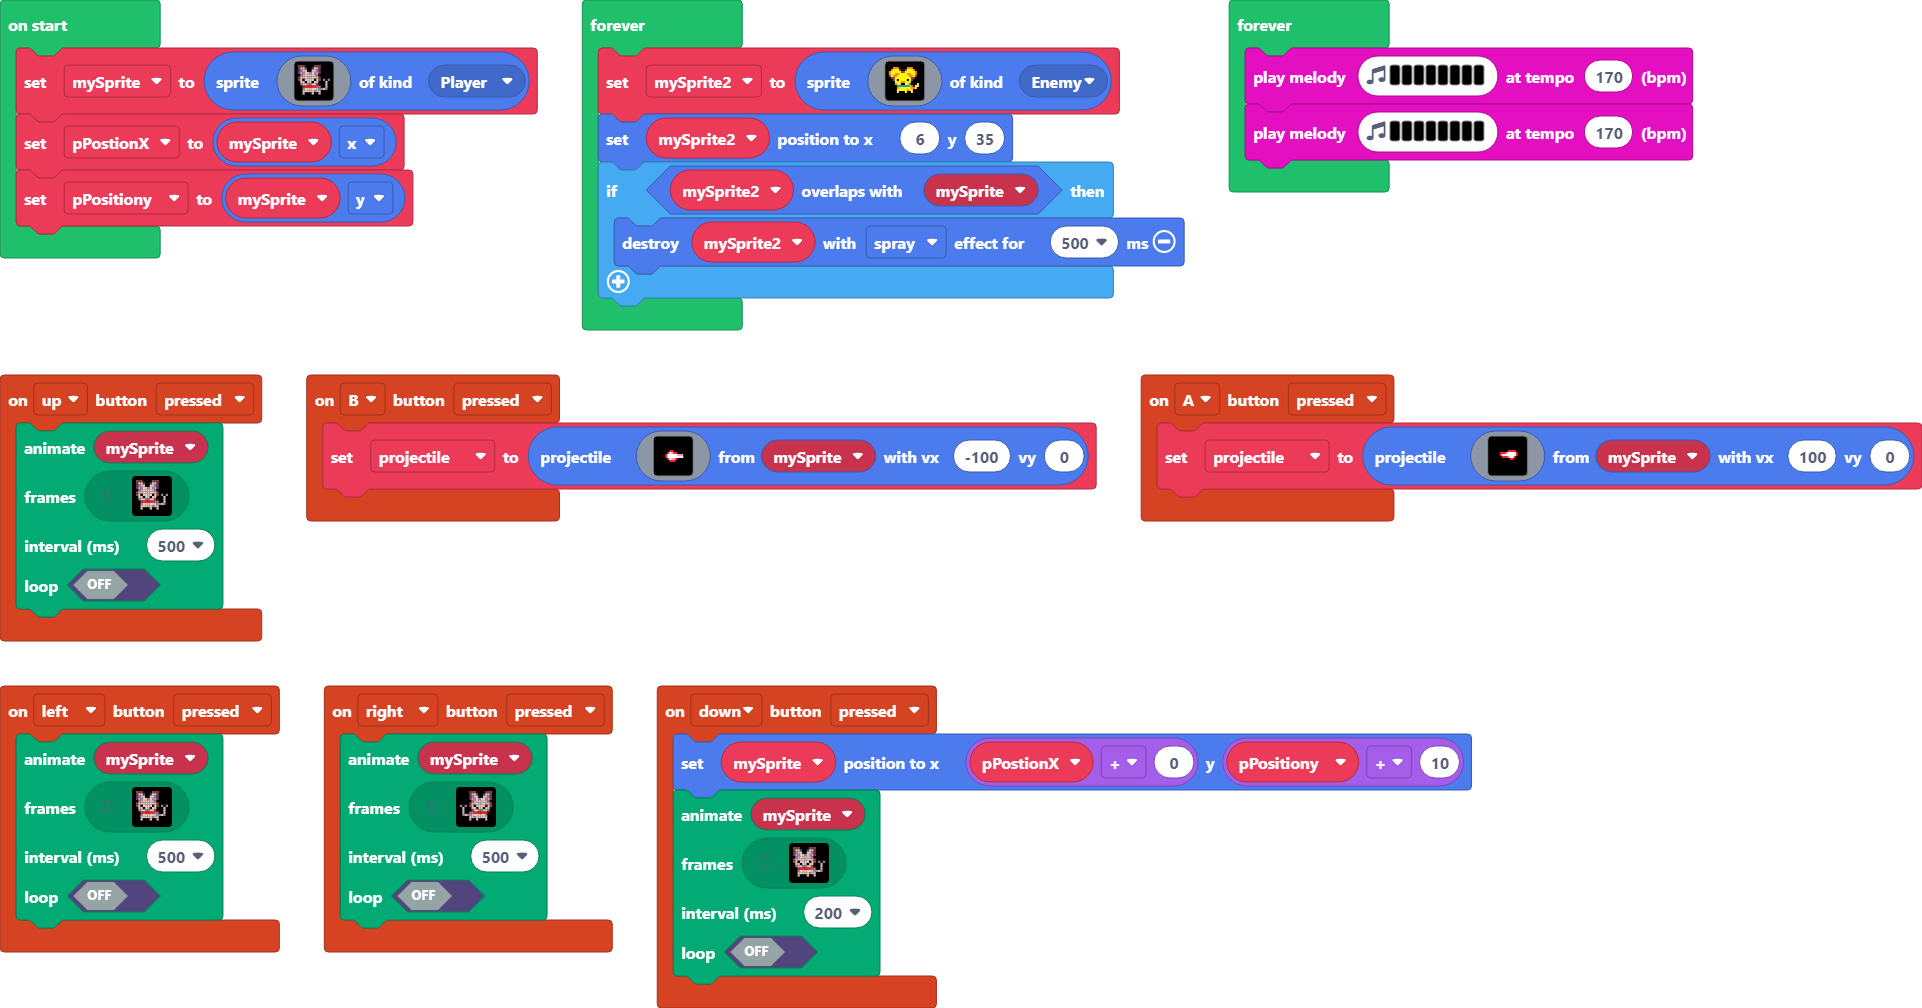
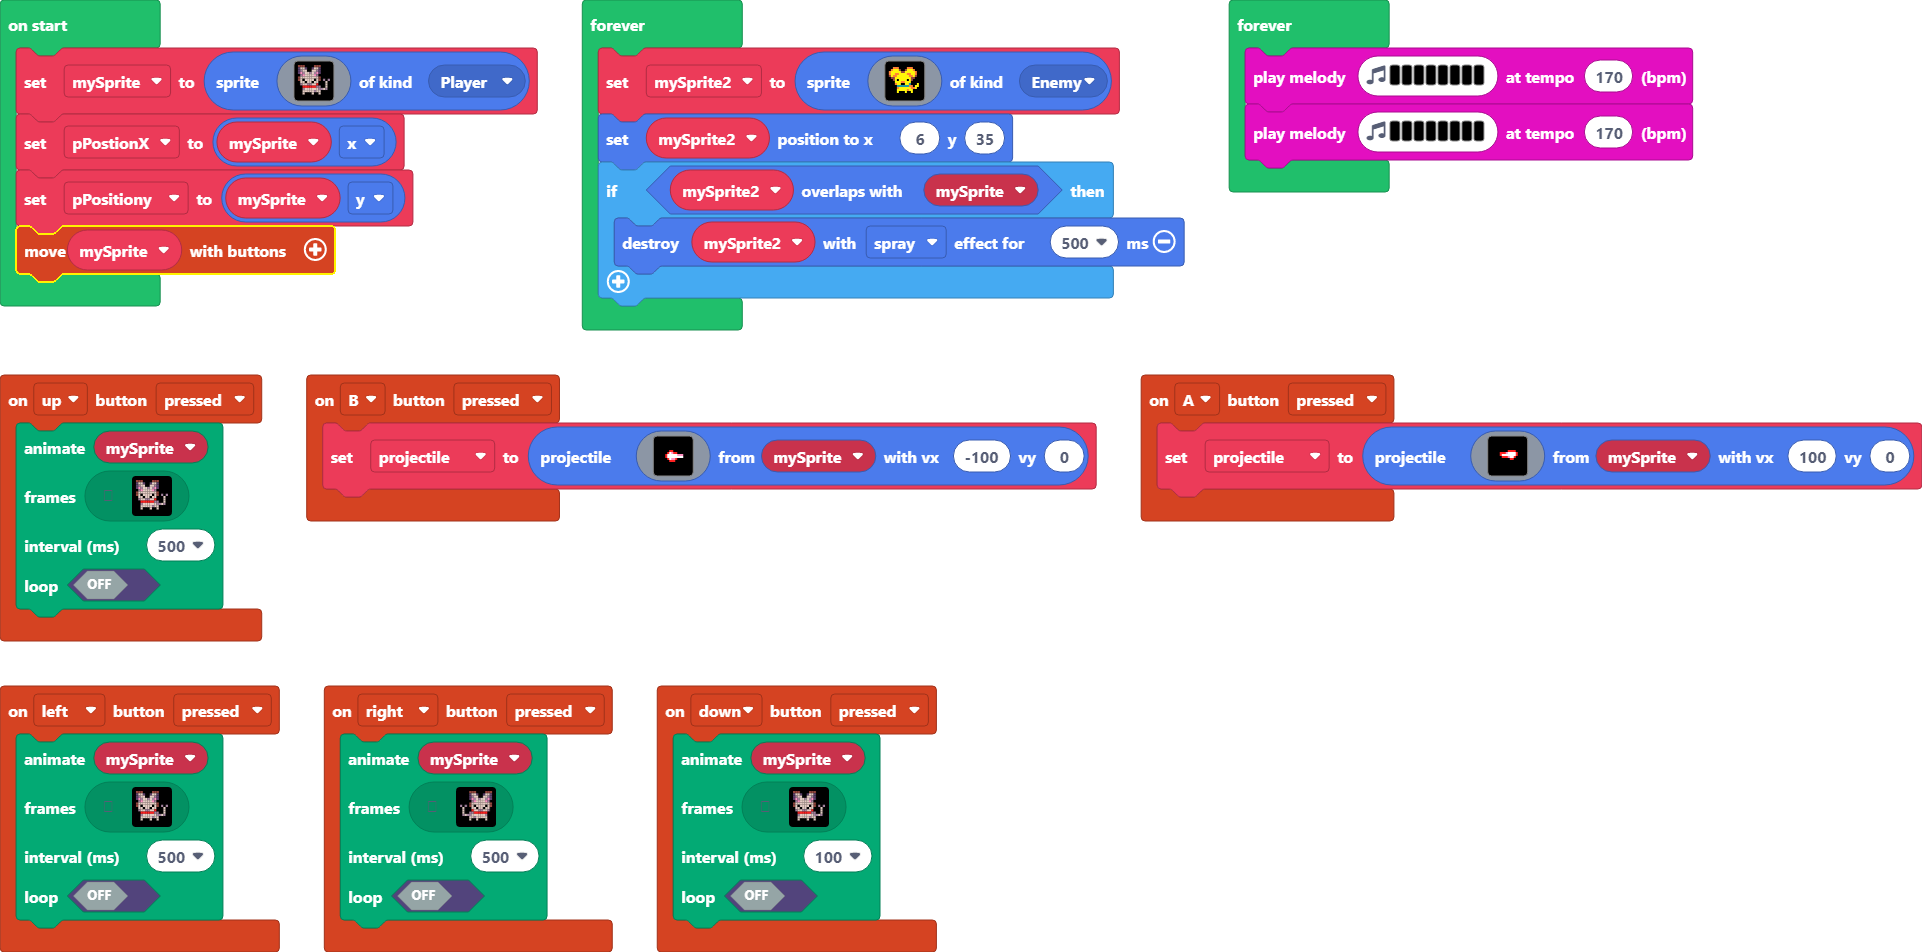
Update main.blocks, main.ts

Changed region(s): [[0.0, 0.0, 1.0, 1.0], [0.0, 0.0, 0.281, 0.3351], [0.6243, 0.0305, 0.8741, 0.2132]]

diff --git a/main.ts b/main.ts
@@ -198,7 +198,6 @@ controller.right.onEvent(ControllerButtonEvent.Pressed, function () {
     )
 })
 controller.down.onEvent(ControllerButtonEvent.Pressed, function () {
-    mySprite.setPosition(pPostionX + 0, pPositiony + 10)
     animation.runImageAnimation(
     mySprite,
     [img`
@@ -247,14 +246,12 @@ controller.down.onEvent(ControllerButtonEvent.Pressed, function () {
         . . f d b d f d f . . . . . 
         . . . f f f f f f . . . . . 
         `],
-    200,
+    100,
     false
     )
 })
 let mySprite2: Sprite = null
 let projectile: Sprite = null
-let pPositiony = 0
-let pPostionX = 0
 let mySprite: Sprite = null
 mySprite = sprites.create(img`
     e e e . . . . e e e . . . . 
@@ -272,8 +269,9 @@ mySprite = sprites.create(img`
     . f d f f f d f f d f . . . 
     . f f . . f f . . f f . . . 
     `, SpriteKind.Player)
-pPostionX = mySprite.x
-pPositiony = mySprite.y
+let pPostionX = mySprite.x
+let pPositiony = mySprite.y
+controller.moveSprite(mySprite)
 forever(function () {
     mySprite2 = sprites.create(img`
         . . 4 4 4 . . . . 4 4 4 . . . . 
